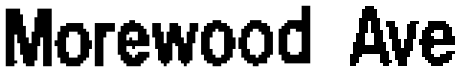
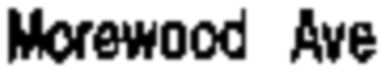
resize test image to 640x480 to mimic Arducam resolution; changed text segmentation threshold to >= 40% of bounding box height

diff --git a/completeSignDectection.py b/completeSignDectection.py
@@ -1,19 +1,24 @@
 # -*- coding: utf-8 -*-
-"""
-Created on Wed Mar  6 12:57:00 2019
-
-@author: Alexander
-"""
-
-# -*- coding: utf-8 -*-
-"""
-Created on Tue Mar  5 17:40:02 2019
-@author: atm52
-"""
 import cv2
 import numpy as np
 
+#height of the final image containing detected words
+RESIZED_HEIGHT = 72
+
+
+def resizeToHeight(newHeight, oldImage):
+    """Maintains aspect ratio when resizing to specified height"""
+    (h,w) = oldImage.shape[:2]
+    r = newHeight / float(h)
+    dim = (int(w * r), newHeight)
+    resized = cv2.resize(oldImage, dim, interpolation=cv2.INTER_AREA)
+    return resized
+
 img = cv2.imread('Forbes3.png') 
+width = 640
+height = 480
+dim = (width, height)
+img = cv2.resize(img, dim, interpolation = cv2.INTER_AREA)
 cv2.imshow( 'Forbes', img )
 cv2.waitKey(0)
 hsv = cv2.cvtColor(img, cv2.COLOR_BGR2HSV)
@@ -57,17 +62,6 @@ cv2.imwrite("test.png", inverted)
 
 cv2.waitKey(0)
 
-
-RESIZED_HEIGHT = 72
-
-def resizeToHeight(newHeight, oldImage):
-    """Maintains aspect ratio when resizing to specified height"""
-    (h,w) = oldImage.shape[:2]
-    r = newHeight / float(h)
-    dim = (int(w * r), newHeight)
-    resized = cv2.resize(oldImage, dim, interpolation=cv2.INTER_AREA)
-    return resized
-
 image = cv2.imread('test.png')
 
 #grayscale
@@ -98,7 +92,7 @@ for i, ctr in enumerate(sorted_ctrs):
     height, width, channels = roi.shape
 
     #only choose words of a certain size
-    if height >= image.shape[0]* 0.3:
+    if height >= image.shape[0]* 0.4:
         if width >= image.shape[1]*0.2 and width <= image.shape[1]*0.9:
              roi = resizeToHeight(RESIZED_HEIGHT, roi)
              streetnameWords.append(roi)
